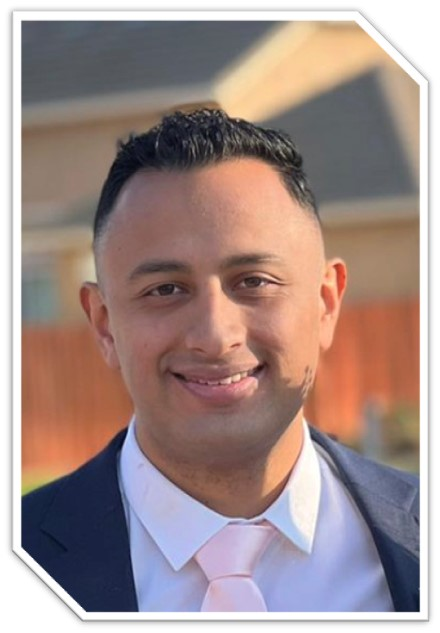
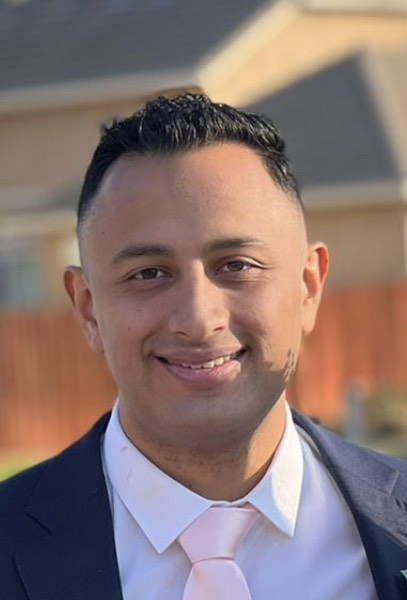
V20240629

diff --git a/src/index.css b/src/index.css
@@ -1,8 +1,12 @@
-@import url('https://fonts.googleapis.com/css2?family=Balsamiq+Sans:wght@400;700&family=Roboto:wght@100&display=swap');
+/* @import url('https://fonts.googleapis.com/css2?family=Balsamiq+Sans:wght@400;700&family=Roboto:wght@100&display=swap'); */
+@import url('https://fonts.googleapis.com/css2?family=Playwrite+IT+Moderna:wght@100..400&family=Roboto:ital,wght@0,100;0,300;0,400;0,500;0,700;0,900;1,100;1,300;1,400;1,500;1,700;1,900&display=swap');
+@import url('https://fonts.googleapis.com/css2?family=Roboto:ital,wght@0,100;0,300;0,400;0,500;0,700;0,900;1,100;1,300;1,400;1,500;1,700;1,900&display=swap');
 
 html,
 body {
-  font-family: 'Balsamiq Sans', sans-serif;
+  font-family: "Roboto", sans-serif;
+  font-weight: 300;
+  font-style: normal;
   margin: 0;
   padding: 0;
   box-sizing: border-box;
@@ -18,6 +22,7 @@ body {
 h1 {
   text-align: center;
   color: black;
+  text-shadow: 4px 4px 4px rgba(0, 0, 0, 0.5);
 }
 
 h3 {
@@ -31,19 +36,42 @@ h5 {
   /* Remove default margin */
   margin-bottom: 5px;
   /* Adjust margin bottom as needed */
+
+}
+
+h5 {
+  color: grey;
 }
 
 .line-with-text {
   width: 100%;
   text-align: center;
   border-bottom: 1px solid black;
+  font-weight: bold;
   line-height: 0.1em;
   margin: 20px 0 20px;
-}
 
+}
+.contact {
+  display: flex;
+  justify-content: space-around;
+}
+.contact-container {
+  display: flex;
+  justify-content: space-between;
+  flex-direction: column;
+  max-width: 400px;
+  /* Ensures the image does not exceed its original size */
+  height: 200px;
+  /* Allows the image to scale proportionally */
+}
 .line-with-text span {
   background: #fff;
   padding: 0 10px;
+}
+
+.bold-text {
+  font-weight: bold;
 }
 
 span {
@@ -60,6 +88,8 @@ nav ul {
   display: flex;
 }
 
+
+
 .content {
   flex: 1;
   padding: 20px;
@@ -70,10 +100,16 @@ footer {
   background: black;
   color: #fff;
   text-align: center;
-  padding: 1em;
-  display: flex;
+  padding: 1px;
+
   justify-content: space-around;
   align-items: center;
+}
+
+.footer-list {
+  display: flex;
+  justify-content: space-around;
+  list-style: none;
 }
 
 .left-part {
@@ -104,9 +140,14 @@ section {
 }
 
 .LinkedIn {
-  max-width: 100%;
-  height: auto;
-  width: 30%;
+  max-width: 500px;
+  /* Ensures the image does not exceed its original size */
+  height: 300px;
+  /* Allows the image to scale proportionally */
+  display: block;
+  /* Ensures proper spacing and alignment */
+  margin: 10px auto;
+  /* Centers the image within its container (optional) */
 }
 
 .LinkedInLogo {
@@ -200,7 +241,7 @@ section {
   /* Position the checkmark */
   left: 0;
   top: 0;
-  color: green;
+  color: black;
   /* Color of the checkmark */
   font-size: 1.2em;
   /* Size of the checkmark */
@@ -211,14 +252,20 @@ section {
 .latest-work-container {
   display: flex;
   justify-content: space-around;
-
-
 }
 
 .responsive-img {
-  max-width: 150px;
+
+  display: block;
+  /* Ensures proper spacing and alignment */
+  margin: 10px auto;
+  /* Centers the image within its container (optional) */
+}
+
+.responsive-face {
+  max-width: 500px;
   /* Ensures the image does not exceed its original size */
-  height: 150px;
+  height: 500px;
   /* Allows the image to scale proportionally */
   display: block;
   /* Ensures proper spacing and alignment */
@@ -229,7 +276,7 @@ section {
 .latest-work-box {
   width: 100%;
   /* Adjust as needed */
-  max-width: 600px;
+  max-width: 300px;
   /* Optional: Limits maximum width */
   margin: 10px;
   /* Centers the container */
@@ -258,4 +305,14 @@ section {
   display: flex;
   justify-content: space-between;
   padding: 50px;
+}
+
+.left-main {
+  display: flex;
+  align-items: center;
+}
+
+.right-main {
+  display: flex;
+  align-items: center;
 }

diff --git a/src/pages/Projects.jsx b/src/pages/Projects.jsx
@@ -3,12 +3,18 @@ import React from 'react';
 const Projects = () => {
   return (
     <div>
-      <h1>Projects</h1>
-      <div className="project">
-        <h3>Project Title</h3>
-        <p>Description of the project.</p>
-        <a href="https://github.com/yourusername/project" target="_blank" rel="noopener noreferrer">View on GitHub</a>
-        <a href="https://yourprojectdemo.com" target="_blank" rel="noopener noreferrer">Live Demo</a>
+      <div>
+        <h1>Projects</h1>
+        <hr />
+      </div>
+      <div className='projects-container'>
+        <ul>
+          <li> <span className='bold-text'>Personal Portfolio Website (2024):</span> Created a dynamic and responsive portfolio website using JavaScript and React, showcasing proficiency in frontend development and modern web technologies. Leveraged React's component-based architecture to build reusable UI elements, ensuring scalability and maintainability of the website. Implemented smooth navigation and interactive user interfaces to highlight projects, skills, and achievements effectively. Deployed the website using GitHub Pages, demonstrating expertise in version control and collaborative development using Git.</li>
+          <br />
+          <li> <span className='bold-text'>Microsoft Stock Behavior (2024):</span> Utilized Python programming along with libraries such as pandas, NumPy, and Matplotlib to perform comprehensive data analysis and visualization. Processed large datasets efficiently using pandas for data manipulation and cleaning, leveraging NumPy for numerical computations and statistical analysis. Developed insightful visualizations and graphical representations using Matplotlib. Implemented various data transformation techniques and statistical models to extract meaningful insights, demonstrating strong analytical and problem-solving skills.</li>
+          <br />
+          <li> <span className='bold-text'>Morning Empire (2024):</span> Designed and implemented a dynamic eCommerce website from scratch using Java and the Spring framework, incorporating robust backend functionalities and seamless frontend experiences. Integrated Spring MVC for handling user requests and responses, ensuring efficient communication between server-side logic and client-side interactions. Utilized Bootstrap framework for responsive and mobile-first frontend design, enhancing user interface (UI) and user experience (UX). Implemented features such as product catalog management, user authentication, shopping cart functionality, and secure payment gateways, adhering to industry best practices and security standards. Successfully deployed the application, achieving scalability and performance optimizations through Java-based technologies and Spring ecosystem tools.</li>
+        </ul>
       </div>
     </div>
   );

diff --git a/src/pages/Home.jsx b/src/pages/Home.jsx
@@ -1,22 +1,26 @@
 import React from 'react';
 import { render } from "react-dom";
 import { motion, useTime, useTransform } from "framer-motion";
-import soccer from '../assets/images/soccer.png';
+import python_project from '../assets/images/python-project.png';
 import finance from '../assets/images/finance.png';
 import breakfast from '../assets/images/breakfast.png';
+import face_layout from '../assets/images/face_layout.png';
 const Home = () => {
   const time = useTime();
   const rotate = useTransform(time, [0, 4000], [0, 360], { clamp: false });
   return (
 
     <div>
-      <h1>Welcome to My Portfolio</h1>
+      
       <div className='main'>
         <div className='left-main'>
-            <h1>Engineer</h1>
+          <h1>Engineer</h1>
+        </div>
+        <div>
+          <img className="responsive-face" src={face_layout} alt="" />
         </div>
         <div className='right-main'>
-            <h1>Coder</h1>
+          <h1>Coder</h1>
         </div>
       </div>
       {/* <div className="example-container">
@@ -32,19 +36,19 @@ const Home = () => {
         </div>
         <div className="latest-work-container">
           <div className='latest-work-box'>
-            <img className="responsive-img" src={soccer} alt="" />
-            <h4>Python Numpy</h4>
-            <h5>Side Project</h5>
+            <img className="responsive-img" src={python_project} alt="" />
+            <h4>Microsoft Stock Behavior</h4>
+            <h5>Data Science Project</h5>
           </div>
           <div className='latest-work-box'>
             <img className="responsive-img" src={finance} alt="" />
-            <h4>Python Numpy</h4>
-            <h5>Side Project</h5>
+            <h4>Morning Empire</h4>
+            <h5>E-commerce Website</h5>
           </div>
           <div className='latest-work-box'>
             <img className="responsive-img" src={breakfast} alt="" />
-            <h4>Python Numpy</h4>
-            <h5>Side Project</h5>
+            <h4>Seasonal and Holiday Crafts</h4>
+            <h5>Mobile App</h5>
           </div>
 
         </div>

diff --git a/src/pages/Contact.jsx b/src/pages/Contact.jsx
@@ -4,10 +4,14 @@ const Contact = () => {
   return (
     <div>
       <h1>Contact</h1>
-      <form action="https://formspree.io/danielrojas199@gmail.com" method="POST">
-        <input type="email" name="email" placeholder="Your Email" required />
-        <textarea name="message" placeholder="Your Message" required></textarea>
-        <button type="submit">Send</button>
+      <form action="https://formspree.io/f/xeojqqgv" method="POST">
+        <div className="contact">
+          <div className='contact-container'>
+            <input type="email" name="email" placeholder="Your Email" required />
+            <textarea name="message" placeholder="Your Message" rows="8" cols="40" required></textarea>
+            <button type="submit">Send</button>
+          </div>
+        </div>
       </form>
     </div>
   );

diff --git a/src/components/Footer.jsx b/src/components/Footer.jsx
@@ -1,16 +1,14 @@
 import React from 'react';
-
+import { Link } from 'react-router-dom';
 const Footer = () => {
   return (
-    <footer class="footer">
-      <div class="left-part">
+    <footer>
+      <ul className='footer-list'>
         &copy; 2024 Daniel Rojas
-      </div>
-      <div class="right-part">
-        <a href="#">About</a>
-        <a href="#">Projects</a>
-        <a href="#">Contact</a>
-      </div>
+        <li><Link to="/about">About</Link></li>
+        <li><Link to="/projects">Projects</Link></li>
+        <li><Link to="/contact">Contact</Link></li>
+      </ul>
     </footer>
   );
 };
